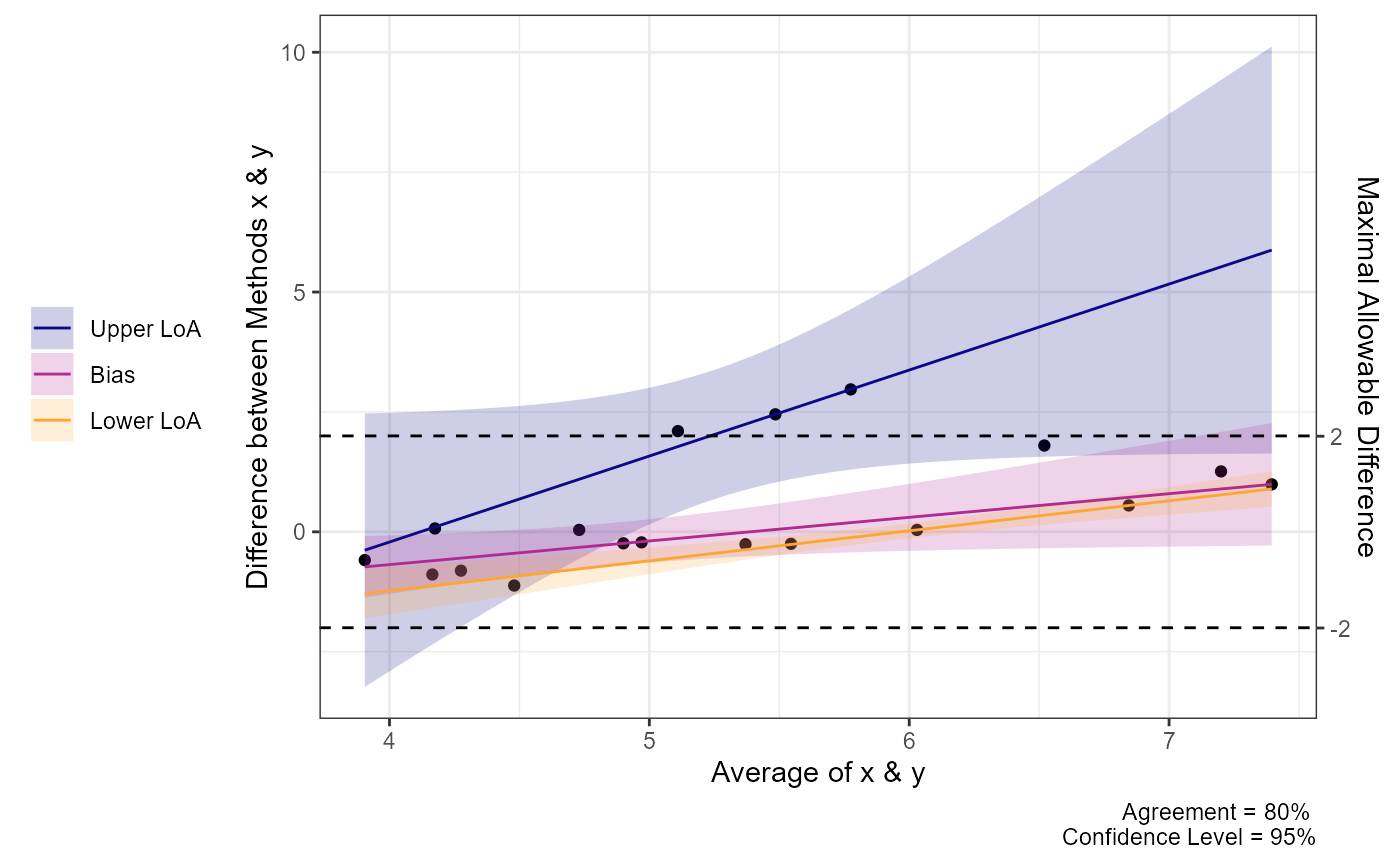
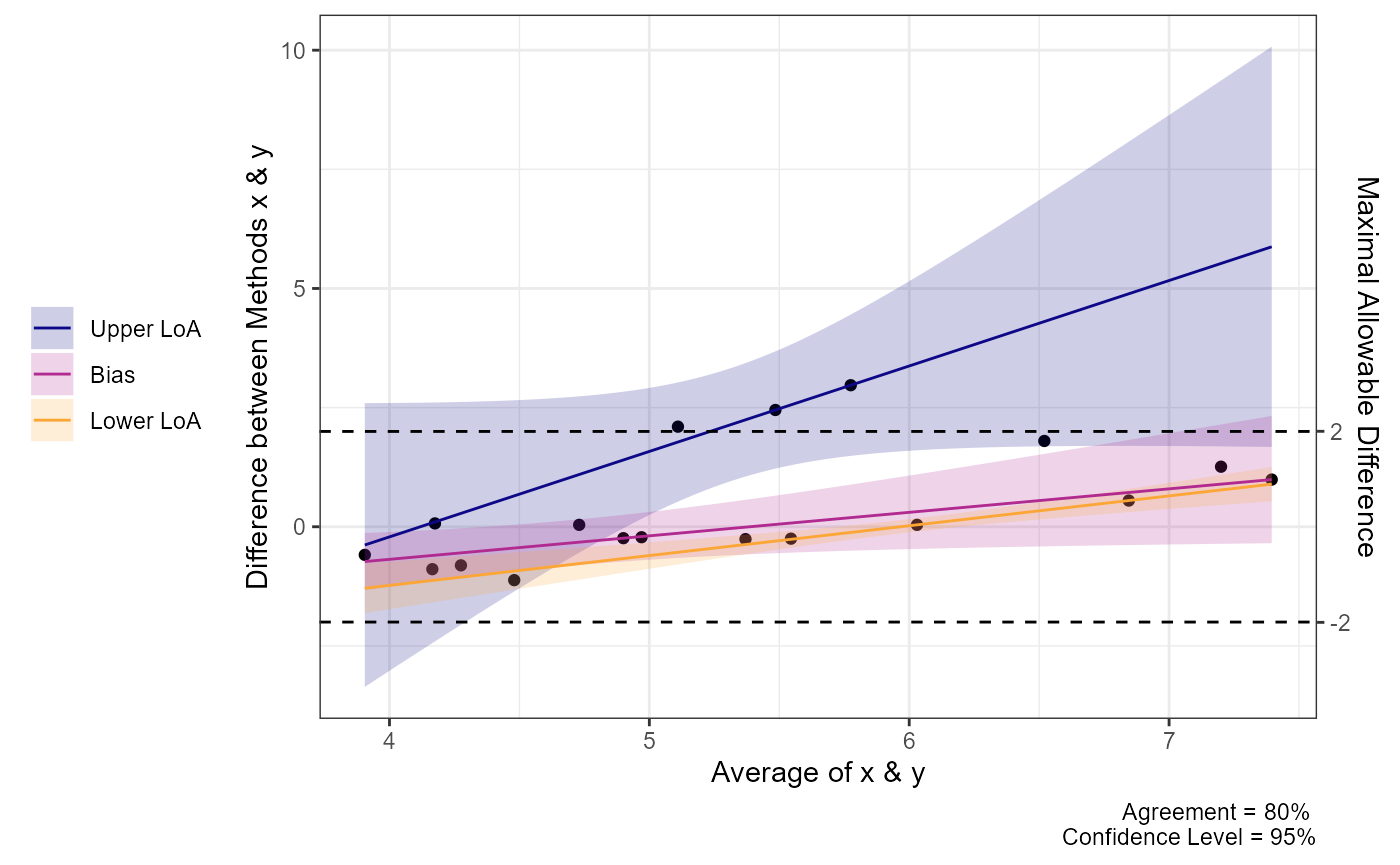
Documentation updated

diff --git a/docs/reference/reli_stats.html b/docs/reference/reli_stats.html
@@ -38,9 +38,6 @@
       <a href="../articles/Deming.html">Deming Regression</a>
     </li>
     <li>
-      <a href="../articles/intro_vignette.html">Introduction to SimplyAgree</a>
-    </li>
-    <li>
       <a href="../articles/reanalysis.html">Re-analysis of an Agreement Study</a>
     </li>
     <li>
@@ -76,7 +73,10 @@
   <span class="va">data</span>,
   wide <span class="op">=</span> <span class="cn">FALSE</span>,
   col.names <span class="op">=</span> <span class="cn">NULL</span>,
-  conf.level <span class="op">=</span> <span class="fl">0.95</span>
+  cv_calc <span class="op">=</span> <span class="st">"MSE"</span>,
+  conf.level <span class="op">=</span> <span class="fl">0.95</span>,
+  other_ci <span class="op">=</span> <span class="cn">FALSE</span>,
+  replicates <span class="op">=</span> <span class="fl">500</span>
 <span class="op">)</span></code></pre></div>
     </div>
 
@@ -94,8 +94,14 @@
 <dd><p>Logical value (TRUE or FALSE) indicating if data is in a "wide" format. Default is TRUE.</p></dd>
 <dt>col.names</dt>
 <dd><p>If wide is equal to TRUE then col.names is a list of the column names containing the measurements for reliability analysis.</p></dd>
+<dt>cv_calc</dt>
+<dd><p>Coefficient of variation (CV) calculation. This function allows for 3 versions of the CV. "MSE" is the default.</p></dd>
 <dt>conf.level</dt>
 <dd><p>the confidence level required. Default is 95%.</p></dd>
+<dt>other_ci</dt>
+<dd><p>Logical value (TRUE or FALSE) indicating whether to calculate confidence intervals for the CV, SEM, SEP, and SEE. Note: this will dramatically increase the computation time.</p></dd>
+<dt>replicates</dt>
+<dd><p>the number of bootstrap replicates. Passed on to the boot function. Default is 500.</p></dd>
 </dl></div>
     <div id="value">
     <h2>Value</h2>
@@ -137,7 +143,8 @@
 </dl></div>
     <div id="details">
     <h2>Details</h2>
-    <p>This function returns intraclass correlation coefficients and other measures of reliability (CV, SEM, SEE, and SEP).
+    <p>The CV calculation has 3 versions. The "MSE" uses the "mean squared error" or residual error from the linear mixed model used to calculate the ICCs. The "SEM" option instead uses the SEM calculation and expresses CV as a ratio of the SEM to the overall mean. The "residuals" option uses the sjstats R package approach which uses the model residuals to calculate the root mean square error.</p>
+<p>This function returns intraclass correlation coefficients and other measures of reliability (CV, SEM, SEE, and SEP).
 The estimates of variances for any of the measures are derived from linear mixed models.
 The results may differ slightly from the results from ICC calculations derived from an analysis of variance.</p>
     </div>
@@ -156,12 +163,12 @@ The results may differ slightly from the results from ICC calculations derived f
     <div class="sourceCode"><pre class="sourceCode r"><code><span class="r-in"><span class="fu"><a href="https://rdrr.io/r/utils/data.html" class="external-link">data</a></span><span class="op">(</span><span class="st">'reps'</span><span class="op">)</span></span>
 <span class="r-in"><span class="fu">reli_stats</span><span class="op">(</span>data <span class="op">=</span> <span class="va">reps</span>, wide <span class="op">=</span> <span class="cn">TRUE</span>, col.names <span class="op">=</span> <span class="fu"><a href="https://rdrr.io/r/base/c.html" class="external-link">c</a></span><span class="op">(</span><span class="st">"x"</span>,<span class="st">"y"</span><span class="op">)</span><span class="op">)</span></span>
 <span class="r-out co"><span class="r-pr">#&gt;</span> </span>
-<span class="r-out co"><span class="r-pr">#&gt;</span> Coefficient of Variation (%):  12.35</span>
-<span class="r-out co"><span class="r-pr">#&gt;</span> Standard Error of Measurement (SEM):  0.8634</span>
-<span class="r-out co"><span class="r-pr">#&gt;</span> Standard Error of the Estimate (SEE):  0.9145</span>
-<span class="r-out co"><span class="r-pr">#&gt;</span> Standard Error of Prediction (SEP):  1.5457</span>
+<span class="r-out co"><span class="r-pr">#&gt;</span> Coefficient of Variation (%):  15.8</span>
+<span class="r-out co"><span class="r-pr">#&gt;</span> Standard Error of Measurement (SEM):  0.863</span>
+<span class="r-out co"><span class="r-pr">#&gt;</span> Standard Error of the Estimate (SEE):  0.914</span>
+<span class="r-out co"><span class="r-pr">#&gt;</span> Standard Error of Prediction (SEP):  1.55</span>
 <span class="r-out co"><span class="r-pr">#&gt;</span> </span>
-<span class="r-out co"><span class="r-pr">#&gt;</span> Intraclass Correlation Coefficients</span>
+<span class="r-out co"><span class="r-pr">#&gt;</span> Intraclass Correlation Coefficients with  95 % C.I.</span>
 <span class="r-out co"><span class="r-pr">#&gt;</span>            model         measures  type    icc lower.ci upper.ci</span>
 <span class="r-out co"><span class="r-pr">#&gt;</span> 1 one-way random        Agreement  ICC1 0.4963   0.1632   0.7299</span>
 <span class="r-out co"><span class="r-pr">#&gt;</span> 2 two-way random        Agreement  ICC2 0.5097   0.1911   0.7355</span>

diff --git a/docs/articles/agreement_analysis.html b/docs/articles/agreement_analysis.html
@@ -56,9 +56,6 @@
       <a href="../articles/Deming.html">Deming Regression</a>
     </li>
     <li>
-      <a href="../articles/intro_vignette.html">Introduction to SimplyAgree</a>
-    </li>
-    <li>
       <a href="../articles/reanalysis.html">Re-analysis of an Agreement Study</a>
     </li>
     <li>
@@ -87,7 +84,7 @@
                         <h4 data-toc-skip class="author">Aaron R.
 Caldwell</h4>
             
-            <h4 data-toc-skip class="date">Last Updated: 2022-04-27</h4>
+            <h4 data-toc-skip class="date">Last Updated: 2022-04-29</h4>
       
       
       <div class="hidden name"><code>agreement_analysis.Rmd</code></div>
@@ -657,9 +654,9 @@ are no longer symmetric around the bias estimate.</p>
 <span class="co">#&gt; </span>
 <span class="co">#&gt; ###- Quantile Limits of Agreement (LoA) -###</span>
 <span class="co">#&gt;           Estimate Lower CI Upper CI CI Level</span>
-<span class="co">#&gt; Lower LoA    -0.89  -1.3850  -0.3950     0.90</span>
-<span class="co">#&gt; Bias          0.04  -0.6283   0.7083     0.95</span>
-<span class="co">#&gt; Upper LoA     2.45   1.3981   3.5019     0.90</span>
+<span class="co">#&gt; Lower LoA    -0.89  -1.3845  -0.3955     0.90</span>
+<span class="co">#&gt; Bias          0.04  -0.6201   0.7001     0.95</span>
+<span class="co">#&gt; Upper LoA     2.45   1.2365   3.6635     0.90</span>
 
 <span class="fu"><a href="https://rdrr.io/r/graphics/plot.default.html" class="external-link">plot</a></span><span class="op">(</span><span class="va">a1</span><span class="op">)</span></code></pre></div>
 <p><img src="agreement_analysis_files/figure-html/unnamed-chunk-13-1.png" width="700"></p>
@@ -683,15 +680,15 @@ agreement does not.</p>
 <span class="co">#&gt; </span>
 <span class="co">#&gt; ###- Quantile Limits of Agreement (LoA) -###</span>
 <span class="co">#&gt;                  Estimate Lower CI Upper CI CI Level</span>
-<span class="co">#&gt; Lower LoA @ 3.9  -1.28975  -1.6794  -0.9001     0.90</span>
-<span class="co">#&gt; Lower LoA @ 5.24 -0.45436  -0.6504  -0.2583     0.90</span>
-<span class="co">#&gt; Lower LoA @ 7.4   0.89417   0.5308   1.2576     0.90</span>
-<span class="co">#&gt; Bias @ 3.9       -0.73052  -1.6426   0.1816     0.95</span>
-<span class="co">#&gt; Bias @ 5.24      -0.07238  -0.7109   0.5661     0.95</span>
-<span class="co">#&gt; Bias @ 7.4        0.99000  -0.1171   2.0971     0.95</span>
-<span class="co">#&gt; Upper LoA @ 3.9  -0.38310  -2.8552   2.0890     0.90</span>
-<span class="co">#&gt; Upper LoA @ 5.24  2.01069   0.8185   3.2029     0.90</span>
-<span class="co">#&gt; Upper LoA @ 7.4   5.87483   2.4153   9.3343     0.90</span>
+<span class="co">#&gt; Lower LoA @ 3.9  -1.28975  -1.6938 -0.88566     0.90</span>
+<span class="co">#&gt; Lower LoA @ 5.24 -0.45436  -0.6343 -0.27440     0.90</span>
+<span class="co">#&gt; Lower LoA @ 7.4   0.89417   0.6303  1.15805     0.90</span>
+<span class="co">#&gt; Bias @ 3.9       -0.73052  -1.4047 -0.05637     0.95</span>
+<span class="co">#&gt; Bias @ 5.24      -0.07238  -0.6020  0.45721     0.95</span>
+<span class="co">#&gt; Bias @ 7.4        0.99000  -0.5447  2.52465     0.95</span>
+<span class="co">#&gt; Upper LoA @ 3.9  -0.38310  -2.6644  1.89822     0.90</span>
+<span class="co">#&gt; Upper LoA @ 5.24  2.01069   0.8349  3.18646     0.90</span>
+<span class="co">#&gt; Upper LoA @ 7.4   5.87483   2.2327  9.51700     0.90</span>
 
 <span class="fu"><a href="https://rdrr.io/r/graphics/plot.default.html" class="external-link">plot</a></span><span class="op">(</span><span class="va">a1</span><span class="op">)</span></code></pre></div>
 <p><img src="agreement_analysis_files/figure-html/unnamed-chunk-14-1.png" width="700"></p>

diff --git a/docs/articles/reliability_analysis.html b/docs/articles/reliability_analysis.html
@@ -56,9 +56,6 @@
       <a href="../articles/Deming.html">Deming Regression</a>
     </li>
     <li>
-      <a href="../articles/intro_vignette.html">Introduction to SimplyAgree</a>
-    </li>
-    <li>
       <a href="../articles/reanalysis.html">Re-analysis of an Agreement Study</a>
     </li>
     <li>
@@ -87,7 +84,7 @@
                         <h4 data-toc-skip class="author">Aaron R.
 Caldwell</h4>
             
-            <h4 data-toc-skip class="date">Last Updated: 2022-04-27</h4>
+            <h4 data-toc-skip class="date">Last Updated: 2022-04-29</h4>
       
       
       <div class="hidden name"><code>reliability_analysis.Rmd</code></div>
@@ -161,12 +158,12 @@ are intended to measure, respectively.</p>
 <div class="sourceCode" id="cb3"><pre class="downlit sourceCode r">
 <code class="sourceCode R"><span class="fu"><a href="https://rdrr.io/r/base/print.html" class="external-link">print</a></span><span class="op">(</span><span class="va">test1</span><span class="op">)</span>
 <span class="co">#&gt; </span>
-<span class="co">#&gt; Coefficient of Variation (%):  15.36</span>
-<span class="co">#&gt; Standard Error of Measurement (SEM):  1.0097</span>
-<span class="co">#&gt; Standard Error of the Estimate (SEE):  2.6245</span>
-<span class="co">#&gt; Standard Error of Prediction (SEP):  4.065</span>
+<span class="co">#&gt; Coefficient of Variation (%):  19.1</span>
+<span class="co">#&gt; Standard Error of Measurement (SEM):  1.01</span>
+<span class="co">#&gt; Standard Error of the Estimate (SEE):  2.62</span>
+<span class="co">#&gt; Standard Error of Prediction (SEP):  4.06</span>
 <span class="co">#&gt; </span>
-<span class="co">#&gt; Intraclass Correlation Coefficients</span>
+<span class="co">#&gt; Intraclass Correlation Coefficients with  95 % C.I.</span>
 <span class="co">#&gt;            model         measures  type    icc lower.ci upper.ci</span>
 <span class="co">#&gt; 1 one-way random        Agreement  ICC1 0.1657 -0.09672   0.6434</span>
 <span class="co">#&gt; 2 two-way random        Agreement  ICC2 0.2898  0.04290   0.6911</span>
@@ -179,11 +176,6 @@ items (e.g., time points).</p>
 <div class="sourceCode" id="cb4"><pre class="downlit sourceCode r">
 <code class="sourceCode R"><span class="fu"><a href="https://rdrr.io/r/graphics/plot.default.html" class="external-link">plot</a></span><span class="op">(</span><span class="va">test1</span><span class="op">)</span></code></pre></div>
 <p><img src="reliability_analysis_files/figure-html/unnamed-chunk-4-1.png" width="576"></p>
-<div class="section level3">
-<h3 id="bootstrapped-confidence-intervals">Bootstrapped Confidence Intervals<a class="anchor" aria-label="anchor" href="#bootstrapped-confidence-intervals"></a>
-</h3>
-<p>TBA</p>
-</div>
 </div>
 <div class="section level2">
 <h2 id="calculative-approach">Calculative Approach<a class="anchor" aria-label="anchor" href="#calculative-approach"></a>

diff --git a/docs/reference/agree_np.html b/docs/reference/agree_np.html
@@ -40,9 +40,6 @@ A non-parametric approach to limits of agreement. The hypothesis test is based o
       <a href="../articles/Deming.html">Deming Regression</a>
     </li>
     <li>
-      <a href="../articles/intro_vignette.html">Introduction to SimplyAgree</a>
-    </li>
-    <li>
       <a href="../articles/reanalysis.html">Re-analysis of an Agreement Study</a>
     </li>
     <li>
@@ -143,9 +140,9 @@ A non-parametric approach to limits of agreement. The hypothesis test is based o
 <span class="r-out co"><span class="r-pr">#&gt;</span> </span>
 <span class="r-out co"><span class="r-pr">#&gt;</span> ###- Quantile Limits of Agreement (LoA) -###</span>
 <span class="r-out co"><span class="r-pr">#&gt;</span>           Estimate Lower CI Upper CI CI Level</span>
-<span class="r-out co"><span class="r-pr">#&gt;</span> Lower LoA    -1.12  -1.4168  -0.8232     0.90</span>
-<span class="r-out co"><span class="r-pr">#&gt;</span> Bias          0.04  -0.5584   0.6384     0.95</span>
-<span class="r-out co"><span class="r-pr">#&gt;</span> Upper LoA     2.97   2.2080   3.7320     0.90</span>
+<span class="r-out co"><span class="r-pr">#&gt;</span> Lower LoA    -1.12  -1.4456  -0.7944     0.90</span>
+<span class="r-out co"><span class="r-pr">#&gt;</span> Bias          0.04  -0.5896   0.6696     0.95</span>
+<span class="r-out co"><span class="r-pr">#&gt;</span> Upper LoA     2.97   2.2234   3.7166     0.90</span>
 <span class="r-out co"><span class="r-pr">#&gt;</span> </span>
 </code></pre></div>
     </div>

diff --git a/docs/articles/index.html b/docs/articles/index.html
@@ -38,9 +38,6 @@
       <a href="../articles/Deming.html">Deming Regression</a>
     </li>
     <li>
-      <a href="../articles/intro_vignette.html">Introduction to SimplyAgree</a>
-    </li>
-    <li>
       <a href="../articles/reanalysis.html">Re-analysis of an Agreement Study</a>
     </li>
     <li>
@@ -69,8 +66,6 @@
       <dl><dt><a href="agreement_analysis.html">Agreement Analysis</a></dt>
         <dd>
         </dd><dt><a href="Deming.html">Deming Regression</a></dt>
-        <dd>
-        </dd><dt><a href="intro_vignette.html">Introduction to SimplyAgree</a></dt>
         <dd>
         </dd><dt><a href="reanalysis.html">Re-analysis of an Agreement Study</a></dt>
         <dd>

diff --git a/docs/articles/Deming.html b/docs/articles/Deming.html
@@ -56,9 +56,6 @@
       <a href="../articles/Deming.html">Deming Regression</a>
     </li>
     <li>
-      <a href="../articles/intro_vignette.html">Introduction to SimplyAgree</a>
-    </li>
-    <li>
       <a href="../articles/reanalysis.html">Re-analysis of an Agreement Study</a>
     </li>
     <li>
@@ -87,7 +84,7 @@
                         <h4 data-toc-skip class="author">Aaron R.
 Caldwell</h4>
             
-            <h4 data-toc-skip class="date">Last Updated: 2022-04-27</h4>
+            <h4 data-toc-skip class="date">Last Updated: 2022-04-29</h4>
       
       
       <div class="hidden name"><code>Deming.Rmd</code></div>

diff --git a/docs/reference/dem_reg.html b/docs/reference/dem_reg.html
@@ -41,9 +41,6 @@ A function for fitting a straight line to two-dimensional data (i.e., X and Y) a
       <a href="../articles/Deming.html">Deming Regression</a>
     </li>
     <li>
-      <a href="../articles/intro_vignette.html">Introduction to SimplyAgree</a>
-    </li>
-    <li>
       <a href="../articles/reanalysis.html">Re-analysis of an Agreement Study</a>
     </li>
     <li>

diff --git a/docs/articles/reanalysis.html b/docs/articles/reanalysis.html
@@ -56,9 +56,6 @@
       <a href="../articles/Deming.html">Deming Regression</a>
     </li>
     <li>
-      <a href="../articles/intro_vignette.html">Introduction to SimplyAgree</a>
-    </li>
-    <li>
       <a href="../articles/reanalysis.html">Re-analysis of an Agreement Study</a>
     </li>
     <li>

diff --git a/docs/news/index.html b/docs/news/index.html
@@ -38,9 +38,6 @@
       <a href="../articles/Deming.html">Deming Regression</a>
     </li>
     <li>
-      <a href="../articles/intro_vignette.html">Introduction to SimplyAgree</a>
-    </li>
-    <li>
       <a href="../articles/reanalysis.html">Re-analysis of an Agreement Study</a>
     </li>
     <li>

diff --git a/docs/reference/Data.html b/docs/reference/Data.html
@@ -38,9 +38,6 @@
       <a href="../articles/Deming.html">Deming Regression</a>
     </li>
     <li>
-      <a href="../articles/intro_vignette.html">Introduction to SimplyAgree</a>
-    </li>
-    <li>
       <a href="../articles/reanalysis.html">Re-analysis of an Agreement Study</a>
     </li>
     <li>

diff --git a/docs/reference/agree_nest.html b/docs/reference/agree_nest.html
@@ -38,9 +38,6 @@
       <a href="../articles/Deming.html">Deming Regression</a>
     </li>
     <li>
-      <a href="../articles/intro_vignette.html">Introduction to SimplyAgree</a>
-    </li>
-    <li>
       <a href="../articles/reanalysis.html">Re-analysis of an Agreement Study</a>
     </li>
     <li>

diff --git a/docs/reference/agree_reps.html b/docs/reference/agree_reps.html
@@ -38,9 +38,6 @@
       <a href="../articles/Deming.html">Deming Regression</a>
     </li>
     <li>
-      <a href="../articles/intro_vignette.html">Introduction to SimplyAgree</a>
-    </li>
-    <li>
       <a href="../articles/reanalysis.html">Re-analysis of an Agreement Study</a>
     </li>
     <li>
